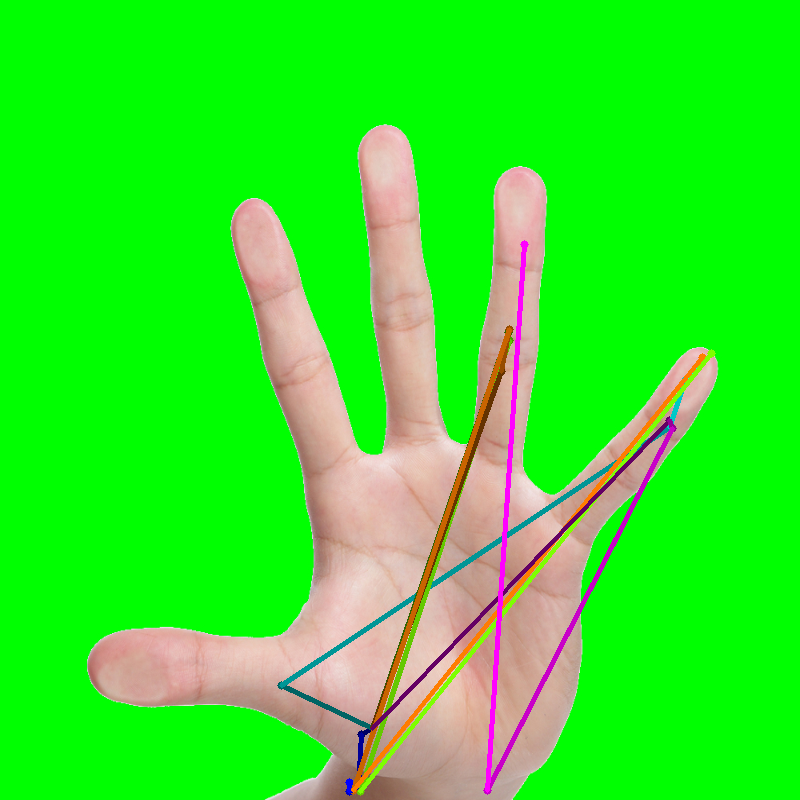
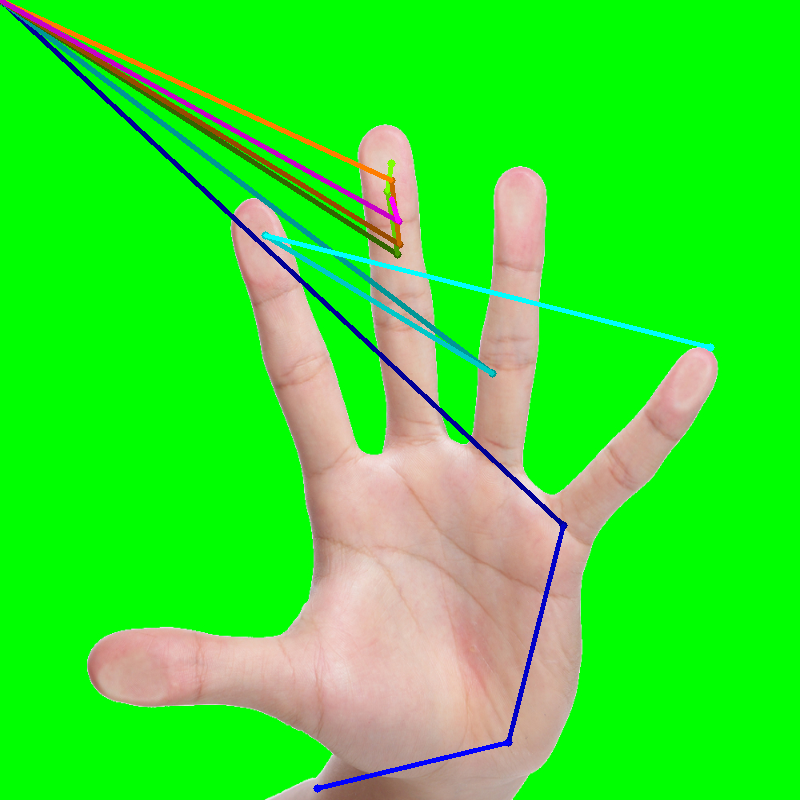
x

diff --git a/demo/hand_demo.py b/demo/hand_demo.py
@@ -19,13 +19,14 @@ from config_reader import config_reader
 from scipy.ndimage.filters import gaussian_filter
 sys.path.append("..")
 from src.models.OpenPose import openpose_hand
+from src.models.RenderHand import renderhand
 #parser = argparse.ArgumentParser()
 #parser.add_argument('--t7_file', required=True)
 #parser.add_argument('--pth_file', required=True)
 #args = parser.parse_args()
 
 torch.set_num_threads(torch.get_num_threads())
-weight_name = '../checkpoint/RenderHand/checkpoint.pth.tar'
+weight_name = '../checkpoint/RenderHand-Model1TapValid/model_best.pth.tar'
 test_image = './sample_image/1.png'
 
 # visualize
@@ -99,14 +100,14 @@ def Hand_Inference(oriImg, Model = None, Name = ""):
 
 		heatmap = nn.Upsample((oriImg.shape[0], oriImg.shape[1]), mode = 'bilinear', align_corners=True).cuda()(output2)     
 		heatmap_avg[m] = heatmap[0].data
-		for output in output2[0]:
-			xxx = imageToTest_padded[0,:,:,:].transpose(1,2,0)[:,:,::-1] + 0.5
-			xxx = cv2.resize(xxx, (100,100))
-			print(output.shape)
-			plt.imshow(xxx)
-			plt.imshow(output, alpha = 0.3)
-			plt.plot()
-			plt.pause(1)
+		# for output in output2[0]:
+		# 	xxx = imageToTest_padded[0,:,:,:].transpose(1,2,0)[:,:,::-1] + 0.5
+		# 	xxx = cv2.resize(xxx, (100,100))
+		# 	print(output.shape)
+		# 	plt.imshow(xxx)
+		# 	plt.imshow(output, alpha = 0.3)
+		# 	plt.plot()
+		# 	plt.pause(1)
 		
 	# toc =time.time()
 	# print 'time is %.5f'%(toc-tic) 
@@ -175,7 +176,7 @@ def Hand_Inference(oriImg, Model = None, Name = ""):
 	return ans
 
 def tmp_Hand_Inference(oriImg):
-	model = openpose_hand()     
+	model = renderhand()     
 	model.load_state_dict(torch.load(weight_name))
 	model.cuda()
 	model.float()
@@ -308,13 +309,14 @@ if __name__ == '__main__':
 	import pickle
 	split = pickle.load(open('../data/RenderHand/split.pickle'))
 	split.Data_Path = '/home/liangjic/data/RenderHand/'
+	model = renderhand(num_classes = 21)
+	model = torch.nn.DataParallel(model).cuda().float()
+	model.load_state_dict(torch.load(weight_name)['state_dict'])
+
 	plt.figure()
 	# oriImg = cv2.imread(test_image) # B,G,R order
 	# joint = Hand_Inference(oriImg)
 	# canvas = cv2.imread(test_image) # B,G,R order
-	model = openpose_hand(num_classes = 21)
-	model = torch.nn.DataParallel(model).cuda().float()
-	model.load_state_dict(torch.load(weight_name)['state_dict'])
 	oriImg = cv2.imread('./hands_green.jpeg')
 	oriImg = cv2.resize(oriImg,(800,800))
 	joint = Hand_Inference(oriImg, Model = model)

diff --git a/src/utils/split.py b/src/utils/split.py
@@ -9,7 +9,7 @@ class Split():
 		self.models = Hand_Model
 		self.actions = Hand_Action
 		self.all = 0
-		self.order = []
+		self.order = {}
 		self.labels = {}
 		for model in self.models:
 			for action in self.actions:
@@ -21,7 +21,7 @@ class Split():
 
 				label = json.load(open(labelpath))
 				self.labels[model + action] = label
-				self.order.append([len(label), model, action])
+				self.order[(model,action)] = [self.all, self.all + len(label)]
 				self.all += len(label)
 
 		self.Split()
@@ -61,18 +61,53 @@ class Split():
 		for i in self.train:
 			self.get_sample(i)
 
-	def Split(self, split_type = 'random'):
+	def Split(self, split_type = 'random', Train = None, Valid = None):
 		gap = int(self.all * 0.2)
 		permu = np.arange(self.all)
-		np.random.shuffle(permu)
-		self.valid = permu[:gap]
-		self.train = permu[gap:]
+		self.valid = []
+		self.train = []
+		if split_type == 'random':
+			np.random.shuffle(permu)
+			self.valid = permu[:gap]
+			self.train = permu[gap:]
+
+		elif split_type == 'Action':
+			cnt = 0
+			for (model, action) in self.order:
+				start, end = self.order[(model, action)]
+				name = model + action
+				if name in Train:
+					self.train += range(start, end)
+				if name in Valid:
+					self.valid += range(start, end)
+
+		elif split_type == 'Camera':
+			for (model, action) in self.order:
+				start, end = self.order[(model, action)]
+				for index in range(start, end):
+					meta = self.labels[model + action][str(index - start).zfill(7)]['meta']
+					info = (meta['camera']['direction'], meta['camera']['step'])
+					if info in Train:
+						self.train.append(index)
+					if info in Valid:
+						self.valid.append(index)
+			assert(len(self.train) > 0)
+			assert(len(self.valid) > 0)
+		
+		self.train = np.array(self.train)
+		self.valid = np.array(self.valid)
+		np.random.shuffle(self.train)
+		np.random.shuffle(self.valid)
+
+		return self.train, self.valid
+		
 
 	def get(self,index):
-		for item in self.order:
-			if index < item[0]:
-				return (str(index).zfill(7), item[1], item[2])
-			index -= item[0]
+		for (model, action) in self.order:
+			start, end = self.order[(model, action)]
+			if index >= start and index < end:
+				return (str(index - start).zfill(7), model, action)
+			
 
 	def get_sample(self, index):
 		w = self.get(index)

diff --git a/train.py b/train.py
@@ -78,8 +78,6 @@ def main(args):
 		logger = Logger(join(args.checkpoint, 'log.txt'), title=title)
 		logger.set_names(['Epoch', 'LR', 'Train Loss', 'Val Loss', 'Train Acc', 'Val Acc'])
 
-	
-
 	cudnn.benchmark = True
 	print('    Total params: %.2fM' % (sum(p.numel() for p in model.parameters())/1000000.0))
 
@@ -91,7 +89,9 @@ def main(args):
 		split = pickle.load(open('./data/RenderHand/split.pickle'))
 	else:
 		split = Split('/home/liangjic/data/RenderHand/', Hand_Model = Select_Models, Hand_Action = Select_Actinos)
-	
+		
+	split.Split('Camera', [('xy', 0)], [('xz', 0)])
+
 	train_loader = torch.utils.data.DataLoader(
 		datasets.Hand(split),
 		batch_size=args.train_batch, shuffle=True,
@@ -316,7 +316,6 @@ def validate(val_loader, model, criterion, num_classes, debug=False, flip=True):
 
 	bar.finish()
 	return losses.avg, acces.avg, predictions
-
 
 if __name__ == '__main__':
 	parser = argparse.ArgumentParser(description='PyTorch ImageNet Training')

diff --git a/test.py b/test.py
@@ -68,7 +68,7 @@ def main(args):
 			logger = Logger(join(args.checkpoint, 'log.txt'), title=title, resume=True)
 		else:
 			print("=> no checkpoint found at '{}'".format(args.resume))
-	else:        
+	else:
 		if isfile(args.model_weight):
 			weight_dict = torch.load(args.model_weight)
 			# print (weight_dict.keys())
